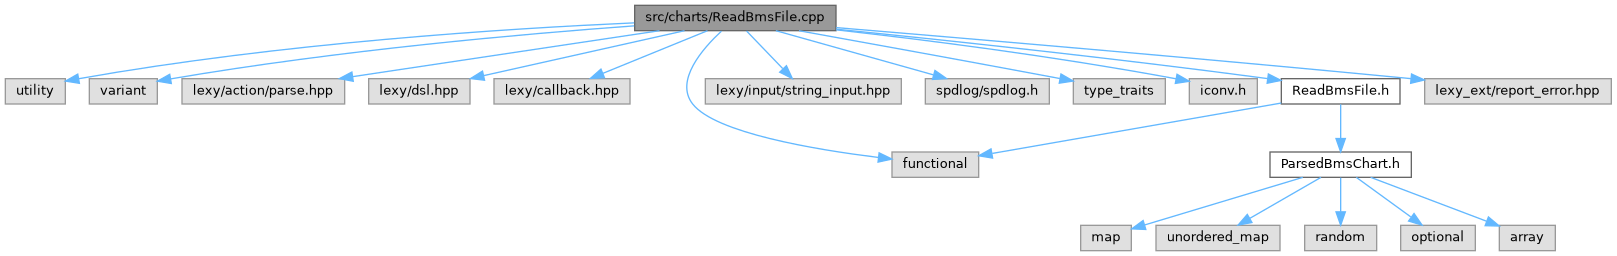
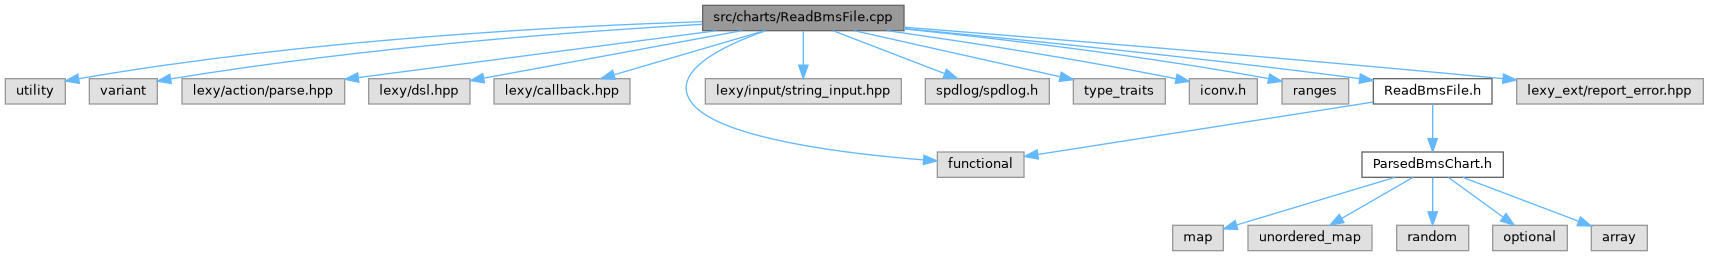
deploy: e5786c7a11fd1c777eadc1af203422d9417e940c

diff --git a/ReadBmsFile_8cpp.html b/ReadBmsFile_8cpp.html
@@ -92,6 +92,7 @@ $(function() {
 <code>#include &lt;spdlog/spdlog.h&gt;</code><br />
 <code>#include &lt;type_traits&gt;</code><br />
 <code>#include &lt;iconv.h&gt;</code><br />
+<code>#include &lt;ranges&gt;</code><br />
 <code>#include &quot;<a class="el" href="ReadBmsFile_8h_source.html">ReadBmsFile.h</a>&quot;</code><br />
 <code>#include &lt;lexy_ext/report_error.hpp&gt;</code><br />
 </div><div class="textblock"><div class="dynheader">
@@ -99,44 +100,46 @@ Include dependency graph for ReadBmsFile.cpp:</div>
 <div class="dyncontent">
 <div class="center"><img src="ReadBmsFile_8cpp__incl.png" border="0" usemap="#asrc_2charts_2ReadBmsFile_8cpp" alt=""/></div>
 <map name="asrc_2charts_2ReadBmsFile_8cpp" id="asrc_2charts_2ReadBmsFile_8cpp">
-<area shape="rect" title=" " alt="" coords="635,5,836,31"/>
+<area shape="rect" title=" " alt="" coords="703,5,904,31"/>
 <area shape="rect" title=" " alt="" coords="5,79,65,104"/>
-<area shape="poly" title=" " alt="" coords="634,26,385,42,234,58,79,81,78,76,233,53,385,37,634,20"/>
+<area shape="poly" title=" " alt="" coords="702,24,425,40,254,56,79,81,78,76,253,51,424,34,702,19"/>
 <area shape="rect" title=" " alt="" coords="89,79,157,104"/>
-<area shape="poly" title=" " alt="" coords="634,29,425,47,300,62,171,82,170,76,299,57,424,42,634,23"/>
+<area shape="poly" title=" " alt="" coords="703,27,464,45,319,60,171,82,170,76,319,55,464,39,702,22"/>
 <area shape="rect" title=" " alt="" coords="182,79,345,104"/>
-<area shape="poly" title=" " alt="" coords="660,33,353,79,352,74,659,28"/>
+<area shape="poly" title=" " alt="" coords="717,33,359,80,358,75,716,28"/>
 <area shape="rect" title=" " alt="" coords="369,79,470,104"/>
-<area shape="poly" title=" " alt="" coords="685,33,484,78,483,73,684,28"/>
+<area shape="poly" title=" " alt="" coords="742,33,484,81,483,76,741,28"/>
 <area shape="rect" title=" " alt="" coords="494,79,630,104"/>
-<area shape="poly" title=" " alt="" coords="708,33,604,76,602,71,706,28"/>
-<area shape="rect" title=" " alt="" coords="892,152,979,177"/>
-<area shape="poly" title=" " alt="" coords="723,33,709,48,696,66,690,85,695,103,706,112,723,121,770,136,879,155,878,160,769,141,721,126,703,116,690,105,684,85,691,64,705,45,720,29"/>
+<area shape="poly" title=" " alt="" coords="765,33,615,77,614,72,764,28"/>
+<area shape="rect" title=" " alt="" coords="937,152,1024,177"/>
+<area shape="poly" title=" " alt="" coords="766,33,734,46,705,63,695,72,690,82,689,92,695,102,709,114,731,124,791,140,860,151,924,157,923,163,859,156,790,145,729,129,706,118,691,106,684,93,685,80,691,69,702,59,732,41,764,28"/>
 <area shape="rect" title=" " alt="" coords="705,79,901,104"/>
-<area shape="poly" title=" " alt="" coords="748,29,785,67,781,70,745,33"/>
+<area shape="poly" title=" " alt="" coords="806,31,806,65,801,65,801,31"/>
 <area shape="rect" title=" " alt="" coords="925,79,1049,104"/>
-<area shape="poly" title=" " alt="" coords="777,28,934,72,932,77,775,33"/>
+<area shape="poly" title=" " alt="" coords="834,28,945,71,943,76,832,33"/>
 <area shape="rect" title=" " alt="" coords="1073,79,1165,104"/>
-<area shape="poly" title=" " alt="" coords="799,28,1060,76,1059,81,798,33"/>
+<area shape="poly" title=" " alt="" coords="855,28,1061,74,1059,79,854,33"/>
 <area shape="rect" title=" " alt="" coords="1189,79,1257,104"/>
-<area shape="poly" title=" " alt="" coords="836,27,992,47,1176,76,1176,81,992,52,836,32"/>
-<area shape="rect" href="ReadBmsFile_8h.html" title=" " alt="" coords="1281,79,1400,104"/>
-<area shape="poly" title=" " alt="" coords="837,27,1032,47,1268,76,1267,81,1031,53,836,32"/>
-<area shape="rect" title=" " alt="" coords="1425,79,1611,104"/>
-<area shape="poly" title=" " alt="" coords="836,25,1411,76,1411,81,836,30"/>
-<area shape="poly" title=" " alt="" coords="1282,106,993,156,992,151,1281,100"/>
-<area shape="rect" href="ParsedBmsChart_8h.html" title=" " alt="" coords="1270,152,1411,177"/>
-<area shape="poly" title=" " alt="" coords="1343,104,1343,138,1338,138,1338,104"/>
-<area shape="rect" title=" " alt="" coords="1081,225,1131,251"/>
-<area shape="poly" title=" " alt="" coords="1304,180,1145,227,1144,222,1302,175"/>
-<area shape="rect" title=" " alt="" coords="1156,225,1280,251"/>
-<area shape="poly" title=" " alt="" coords="1322,180,1251,221,1248,216,1320,175"/>
-<area shape="rect" title=" " alt="" coords="1305,225,1377,251"/>
-<area shape="poly" title=" " alt="" coords="1343,178,1343,212,1338,212,1338,178"/>
-<area shape="rect" title=" " alt="" coords="1401,225,1475,251"/>
-<area shape="poly" title=" " alt="" coords="1358,175,1412,215,1409,219,1355,180"/>
-<area shape="rect" title=" " alt="" coords="1499,225,1555,251"/>
-<area shape="poly" title=" " alt="" coords="1372,175,1488,219,1486,224,1370,180"/>
+<area shape="poly" title=" " alt="" coords="887,28,1019,48,1177,76,1176,81,1018,53,887,33"/>
+<area shape="rect" title=" " alt="" coords="1282,79,1349,104"/>
+<area shape="poly" title=" " alt="" coords="904,26,1075,46,1269,76,1270,76,1269,81,1268,81,1075,51,904,32"/>
+<area shape="rect" href="ReadBmsFile_8h.html" title=" " alt="" coords="1373,79,1492,104"/>
+<area shape="poly" title=" " alt="" coords="904,26,1110,47,1360,76,1359,81,1109,52,904,31"/>
+<area shape="rect" title=" " alt="" coords="1517,79,1703,104"/>
+<area shape="poly" title=" " alt="" coords="904,25,1503,76,1503,81,904,30"/>
+<area shape="poly" title=" " alt="" coords="1373,105,1361,107,1039,157,1038,152,1360,101,1373,99"/>
+<area shape="rect" href="ParsedBmsChart_8h.html" title=" " alt="" coords="1362,152,1503,177"/>
+<area shape="poly" title=" " alt="" coords="1435,104,1435,138,1430,138,1430,104"/>
+<area shape="rect" title=" " alt="" coords="1173,225,1223,251"/>
+<area shape="poly" title=" " alt="" coords="1396,180,1237,227,1236,222,1394,175"/>
+<area shape="rect" title=" " alt="" coords="1248,225,1372,251"/>
+<area shape="poly" title=" " alt="" coords="1414,180,1343,221,1340,216,1412,175"/>
+<area shape="rect" title=" " alt="" coords="1397,225,1469,251"/>
+<area shape="poly" title=" " alt="" coords="1435,178,1435,212,1430,212,1430,178"/>
+<area shape="rect" title=" " alt="" coords="1493,225,1567,251"/>
+<area shape="poly" title=" " alt="" coords="1450,175,1504,215,1501,219,1447,180"/>
+<area shape="rect" title=" " alt="" coords="1591,225,1647,251"/>
+<area shape="poly" title=" " alt="" coords="1464,175,1580,219,1578,224,1462,180"/>
 </map>
 </div>
 </div><table class="memberdecls">

diff --git a/ReadBmsFile_8h_source.html b/ReadBmsFile_8h_source.html
@@ -99,9 +99,9 @@ $(document).ready(function() { init_codefold(0); });
 <div class="line"><a id="l00016" name="l00016"></a><span class="lineno">   16</span>} <span class="comment">// namespace charts</span></div>
 <div class="line"><a id="l00017" name="l00017"></a><span class="lineno">   17</span><span class="preprocessor">#endif </span><span class="comment">// RHYTHMGAME_BMSCHARTREADER_H</span></div>
 <div class="ttc" id="aParsedBmsChart_8h_html"><div class="ttname"><a href="ParsedBmsChart_8h.html">ParsedBmsChart.h</a></div></div>
-<div class="ttc" id="aReadBmsFile_8cpp_html_a1bfefc378c730fdc6ed818b0f4b666f5"><div class="ttname"><a href="ReadBmsFile_8cpp.html#a1bfefc378c730fdc6ed818b0f4b666f5">randomGenerator</a></div><div class="ttdeci">std::function&lt; ParsedBmsChart::RandomRange(ParsedBmsChart::RandomRange)&gt; randomGenerator</div><div class="ttdef"><b>Definition</b> ReadBmsFile.cpp:73</div></div>
+<div class="ttc" id="aReadBmsFile_8cpp_html_a1bfefc378c730fdc6ed818b0f4b666f5"><div class="ttname"><a href="ReadBmsFile_8cpp.html#a1bfefc378c730fdc6ed818b0f4b666f5">randomGenerator</a></div><div class="ttdeci">std::function&lt; ParsedBmsChart::RandomRange(ParsedBmsChart::RandomRange)&gt; randomGenerator</div><div class="ttdef"><b>Definition</b> ReadBmsFile.cpp:74</div></div>
 <div class="ttc" id="anamespacecharts_html"><div class="ttname"><a href="namespacecharts.html">charts</a></div><div class="ttdoc">Classes and functions related to loading and calculating offsets in BMS charts.</div><div class="ttdef"><b>Definition</b> BmsNotesData.cpp:15</div></div>
-<div class="ttc" id="anamespacecharts_html_a91c6afd04f12affb107694b149a6a40b"><div class="ttname"><a href="namespacecharts.html#a91c6afd04f12affb107694b149a6a40b">charts::readBmsChart</a></div><div class="ttdeci">auto readBmsChart(const std::string_view chart, const std::function&lt; ParsedBmsChart::RandomRange(ParsedBmsChart::RandomRange)&gt; &amp;randomGenerator) -&gt; ParsedBmsChart</div><div class="ttdef"><b>Definition</b> ReadBmsFile.cpp:954</div></div>
+<div class="ttc" id="anamespacecharts_html_a91c6afd04f12affb107694b149a6a40b"><div class="ttname"><a href="namespacecharts.html#a91c6afd04f12affb107694b149a6a40b">charts::readBmsChart</a></div><div class="ttdeci">auto readBmsChart(const std::string_view chart, const std::function&lt; ParsedBmsChart::RandomRange(ParsedBmsChart::RandomRange)&gt; &amp;randomGenerator) -&gt; ParsedBmsChart</div><div class="ttdef"><b>Definition</b> ReadBmsFile.cpp:955</div></div>
 <div class="ttc" id="astructcharts_1_1ParsedBmsChart_html_a2ea2b6109130cb451fc57dee673b3d29"><div class="ttname"><a href="structcharts_1_1ParsedBmsChart.html#a2ea2b6109130cb451fc57dee673b3d29">charts::ParsedBmsChart::RandomRange</a></div><div class="ttdeci">int64_t RandomRange</div><div class="ttdef"><b>Definition</b> ParsedBmsChart.h:20</div></div>
 </div><!-- fragment --></div><!-- contents -->
 <!-- start footer part -->

diff --git a/ChartDataFactory_8h_source.html b/ChartDataFactory_8h_source.html
@@ -145,7 +145,7 @@ $(document).ready(function() { init_codefold(0); });
 <div class="ttc" id="aBmsNotesData_8h_html"><div class="ttname"><a href="BmsNotesData_8h.html">BmsNotesData.h</a></div></div>
 <div class="ttc" id="aBmsNotes_8h_html"><div class="ttname"><a href="BmsNotes_8h.html">BmsNotes.h</a></div></div>
 <div class="ttc" id="aChartData_8h_html"><div class="ttname"><a href="ChartData_8h.html">ChartData.h</a></div></div>
-<div class="ttc" id="aReadBmsFile_8cpp_html_a1bfefc378c730fdc6ed818b0f4b666f5"><div class="ttname"><a href="ReadBmsFile_8cpp.html#a1bfefc378c730fdc6ed818b0f4b666f5">randomGenerator</a></div><div class="ttdeci">std::function&lt; ParsedBmsChart::RandomRange(ParsedBmsChart::RandomRange)&gt; randomGenerator</div><div class="ttdef"><b>Definition</b> ReadBmsFile.cpp:73</div></div>
+<div class="ttc" id="aReadBmsFile_8cpp_html_a1bfefc378c730fdc6ed818b0f4b666f5"><div class="ttname"><a href="ReadBmsFile_8cpp.html#a1bfefc378c730fdc6ed818b0f4b666f5">randomGenerator</a></div><div class="ttdeci">std::function&lt; ParsedBmsChart::RandomRange(ParsedBmsChart::RandomRange)&gt; randomGenerator</div><div class="ttdef"><b>Definition</b> ReadBmsFile.cpp:74</div></div>
 <div class="ttc" id="aclassresource__managers_1_1ChartDataFactory_html"><div class="ttname"><a href="classresource__managers_1_1ChartDataFactory.html">resource_managers::ChartDataFactory</a></div><div class="ttdef"><b>Definition</b> ChartDataFactory.h:20</div></div>
 <div class="ttc" id="aclassresource__managers_1_1ChartDataFactory_html_a17a0b84ca0e3226924a8c86f0b952b62"><div class="ttname"><a href="classresource__managers_1_1ChartDataFactory.html#a17a0b84ca0e3226924a8c86f0b952b62">resource_managers::ChartDataFactory::RandomGenerator</a></div><div class="ttdeci">std::function&lt; charts::ParsedBmsChart::RandomRange(charts::ParsedBmsChart::RandomRange)&gt; RandomGenerator</div><div class="ttdef"><b>Definition</b> ChartDataFactory.h:29</div></div>
 <div class="ttc" id="aclassresource__managers_1_1ChartDataFactory_html_a21f2b81fbf3e95557308eeee9d151bb8"><div class="ttname"><a href="classresource__managers_1_1ChartDataFactory.html#a21f2b81fbf3e95557308eeee9d151bb8">resource_managers::ChartDataFactory::loadChartData</a></div><div class="ttdeci">auto loadChartData(const std::filesystem::path &amp;chartPath, RandomGenerator randomGenerator, int64_t directory=0) const -&gt; ChartComponents</div><div class="ttdef"><b>Definition</b> ChartDataFactory.cpp:147</div></div>

diff --git a/structcharts_1_1RandomBlock.html b/structcharts_1_1RandomBlock.html
@@ -139,7 +139,7 @@ Static Public Attributes</h2></td></tr>
 <div class="line">      lexy::bind(lexy::callback&lt;ParsedBmsChart::Tags&gt;(<a class="code hl_function" href="namespacecharts.html#a50535dd5be05a8d66d715efe642110e5">resolveIfs</a>),</div>
 <div class="line">                 lexy::values,</div>
 <div class="line">                 lexy::parse_state)</div>
-<div class="ttc" id="anamespacecharts_html_a50535dd5be05a8d66d715efe642110e5"><div class="ttname"><a href="namespacecharts.html#a50535dd5be05a8d66d715efe642110e5">charts::resolveIfs</a></div><div class="ttdeci">auto resolveIfs(ParsedBmsChart::RandomRange randomRange, std::vector&lt; std::variant&lt; IfData, ParsedBmsChart::Tags &gt; &gt; randomContents, const ParseState &amp;parseState) -&gt; ParsedBmsChart::Tags</div><div class="ttdef"><b>Definition</b> ReadBmsFile.cpp:877</div></div>
+<div class="ttc" id="anamespacecharts_html_a50535dd5be05a8d66d715efe642110e5"><div class="ttname"><a href="namespacecharts.html#a50535dd5be05a8d66d715efe642110e5">charts::resolveIfs</a></div><div class="ttdeci">auto resolveIfs(ParsedBmsChart::RandomRange randomRange, std::vector&lt; std::variant&lt; IfData, ParsedBmsChart::Tags &gt; &gt; randomContents, const ParseState &amp;parseState) -&gt; ParsedBmsChart::Tags</div><div class="ttdef"><b>Definition</b> ReadBmsFile.cpp:878</div></div>
 </div><!-- fragment -->
 </div>
 </div>
